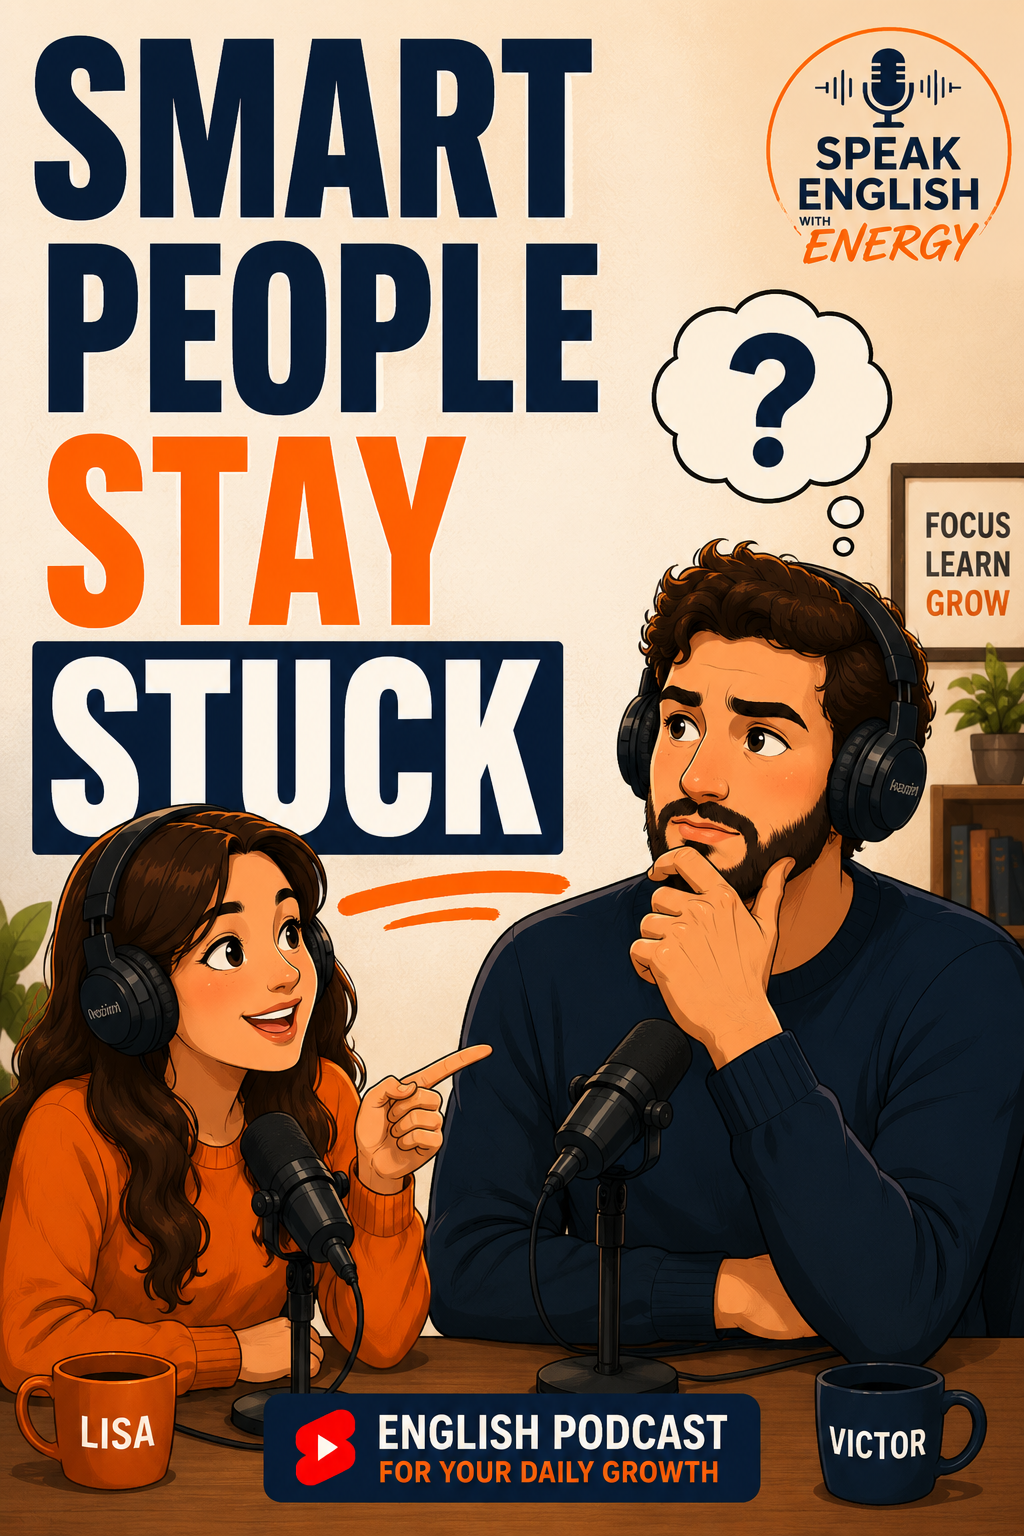
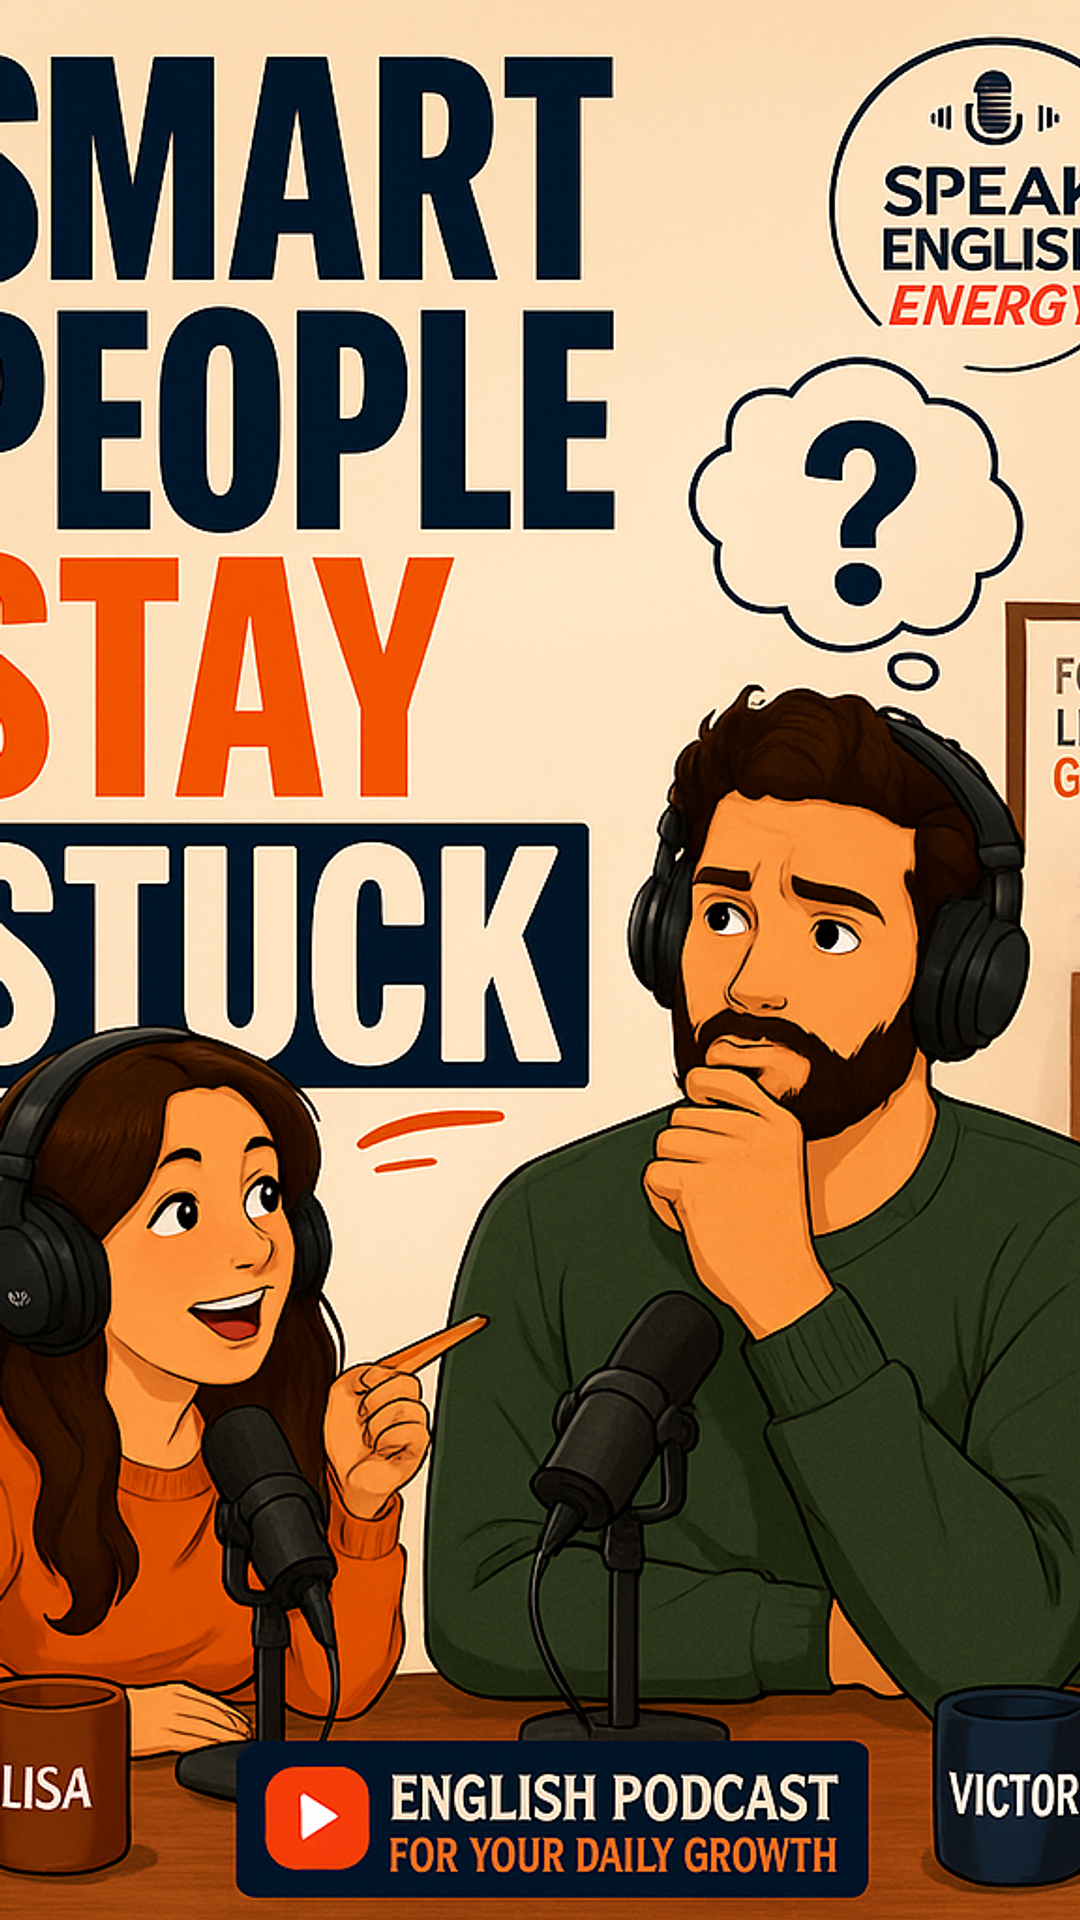
feat: update thumbnail generation to include episode details in prompts and enhance scene creation logic

diff --git a/src/prompts/short-thumbnail.prompt.ts b/src/prompts/short-thumbnail.prompt.ts
@@ -1,30 +1,44 @@
+import {
+  THUMBNAIL_ART_STYLE,
+  THUMBNAIL_BRAND_COLORS,
+  THUMBNAIL_CHARACTER_COLOR_REFERENCE,
+  THUMBNAIL_CHARACTERS_UNCHANGED,
+} from './thumbnail-brand';
+
 export interface ShortThumbnailPromptInput {
   topic: string;
+  episodeTitle: string;
   thumbnailText: string;
   thumbnailScene: string;
 }
 
 export function buildShortThumbnailImagePrompt(input: ShortThumbnailPromptInput): string {
-  const { topic, thumbnailText, thumbnailScene } = input;
+  const { topic, episodeTitle, thumbnailText, thumbnailScene } = input;
 
   return `Edit the provided reference thumbnail template for the "Speak English With Energy" English-learning channel — VERTICAL 9:16 short-form format.
 
-This is a TEMPLATE EDIT — keep the reference image layout and branding identical. Only change the headline text and topic-specific context.
+This is a STRICT TEMPLATE EDIT. Keep the vertical reference layout and branding identical. Only change the headline text and topic-specific context.
 
-KEEP UNCHANGED (match reference exactly):
+A second reference image (landscape podcast thumbnail) is provided ONLY for Victor and Lisa sweater colors — copy those colors exactly, not the vertical template's sweater colors if they differ.
+
+${THUMBNAIL_CHARACTER_COLOR_REFERENCE}
+
+KEEP UNCHANGED (match vertical reference exactly):
 - Vertical 9:16 portrait composition with safe margins — nothing touches the frame edges
 - TOP ~30%: stacked headline area centered (same typography style, spacing, and colors as reference)
 - MIDDLE/BOTTOM ~70%: Victor and Lisa at the podcast desk — same character designs, positions, and core props
 - TOP: "Speak ENGLISH WITH ENERGY" logo with microphone and book icons (compact for vertical)
 - BOTTOM: green rounded badge with microphone icon — "ENGLISH PODCAST" and "FOR LEARNING ENGLISH"
-- Victor: male, brown hair, beard, forest green sweater, black headphones, navy mug labeled "Victor"
-- Lisa: female, long wavy brown hair, orange sweater, black headphones, orange mug labeled "Lisa"
+${THUMBNAIL_CHARACTERS_UNCHANGED}
 - Desk: wooden table, two black condenser mics on stands, small white succulent, open notebook with pen
-- Art style: modern clean digital illustration, warm beige studio, soft shading, not photorealistic
-- Brand colors: Dark Navy #0D1B3D, Royal Blue #1E3A8A, Bright Orange #FF7A00, Off-white #F2F4F7
+- Art style: ${THUMBNAIL_ART_STYLE}
+- Brand colors: ${THUMBNAIL_BRAND_COLORS}
 
 CHANGE ONLY — headline text at the top:
-Replace the reference title with this new stacked headline (spell exactly):
+
+Episode title: "${episodeTitle}"
+
+Replace the reference headline with this new stacked ALL-CAPS text (spell exactly, preserve \\n line breaks):
 "${thumbnailText}"
 Use the same treatment as the reference: navy sans-serif lines, one keyword in large bright orange, one line in white on a thick navy horizontal brush-stroke banner.
 
@@ -36,16 +50,21 @@ Episode topic: "${topic}"
 High contrast, readable on a phone screen, no watermarks, no extra text beyond what is specified.`;
 }
 
-export function buildShortThumbnailScenePrompt(topic: string, thumbnailText: string): string {
+export function buildShortThumbnailScenePrompt(
+  topic: string,
+  episodeTitle: string,
+  thumbnailText: string,
+): string {
   return `You are an art director for the "Speak English With Energy" YouTube Short / TikTok channel.
 
+Episode title: "${episodeTitle}"
 Topic: "${topic}"
 Thumbnail headline: "${thumbnailText}"
 
 The thumbnail uses a fixed VERTICAL 9:16 template (Victor and Lisa at a podcast desk, headline at top). Write ONLY the topic-specific changes — not the full scene.
 
 Describe what to change from the default template:
-- Victor's expression and pose (listener's problem: confused, stuck, worried, etc.)
+- Victor's expression and pose — reflect the listener's problem from the episode title
 - Thought bubble content — one visual metaphor tied to the topic (scribble, chart, clock, etc.)
 - Lisa's expression and gesture (teaching, pointing, encouraging)
 - Three book spine titles on the desk stack — short uppercase words related to the topic

diff --git a/src/ai/thumbnail.service.ts b/src/ai/thumbnail.service.ts
@@ -65,29 +65,39 @@ export class ThumbnailService {
     );
   }
 
-  async generateShort(script: ShortScript, topic: string, outputPath: string): Promise<void> {
-    const demoPath = path.join(this.assetsDir, 'demo-short-thumbnail.png');
+  async generateShort(
+    script: ShortScript,
+    episode: Pick<PodcastScript, 'title' | 'thumbnailText' | 'thumbnailScene'>,
+    topic: string,
+    outputPath: string,
+  ): Promise<void> {
+    const demoShortPath = path.join(this.assetsDir, 'demo-short-thumbnail.png');
+    const demoLandscapePath = path.join(this.assetsDir, 'demo-thumbnail.png');
 
     const thumbnailScene =
+      episode.thumbnailScene ??
       script.thumbnailScene ??
-      (await this.generateShortScene(topic, script.thumbnailText));
+      (await this.generateShortScene(topic, episode.title, episode.thumbnailText));
 
     const prompt = buildShortThumbnailImagePrompt({
       topic,
-      thumbnailText: script.thumbnailText,
+      episodeTitle: episode.title,
+      thumbnailText: episode.thumbnailText,
       thumbnailScene,
     });
 
-    logger.info(`Generating short thumbnail for: "${script.thumbnailText}"`);
+    logger.info(`Generating short thumbnail for: "${episode.thumbnailText}"`);
 
-    const referenceBuffer = await prepareShortReferenceImage(demoPath);
-    const refSize = await getImageDimensions(referenceBuffer);
+    const shortReferenceBuffer = await prepareShortReferenceImage(demoShortPath);
+    const landscapeReferenceBuffer = await prepareReferenceImage(demoLandscapePath);
+    const refSize = await getImageDimensions(shortReferenceBuffer);
     logger.info(`Reference prepared → ${refSize.width}x${refSize.height} (9:16 content letterboxed for API)`);
+    logger.info('Including landscape reference for Victor/Lisa sweater color consistency');
 
     const apiBuffer = await this.openai.generateImageEdit(
       prompt,
-      [referenceBuffer],
-      ['demo-short-thumbnail.png'],
+      [shortReferenceBuffer, landscapeReferenceBuffer],
+      ['demo-short-thumbnail.png', 'demo-thumbnail-character-colors.png'],
     );
     const apiSize = await getImageDimensions(apiBuffer);
     logger.info(`API returned → ${apiSize.width}x${apiSize.height}`);
@@ -126,11 +136,15 @@ export class ThumbnailService {
     return result;
   }
 
-  private async generateShortScene(topic: string, thumbnailText: string): Promise<string> {
+  private async generateShortScene(
+    topic: string,
+    episodeTitle: string,
+    thumbnailText: string,
+  ): Promise<string> {
     logger.info('Generating short thumbnail scene description...');
 
     const result = await this.openai.generateJSON(
-      buildShortThumbnailScenePrompt(topic, thumbnailText),
+      buildShortThumbnailScenePrompt(topic, episodeTitle, thumbnailText),
       'You are a creative art director. Respond only with valid JSON.',
       (data: unknown) => {
         if (

diff --git a/src/prompts/short-script.prompt.ts b/src/prompts/short-script.prompt.ts
@@ -17,6 +17,7 @@ Instead: read the full episode, pick the ONE most compelling angle (the insight 
 
 Episode topic: "${topic}"
 Episode title: "${podcastScript.title}"
+Episode thumbnail headline: "${podcastScript.thumbnailText}"
 
 FULL PODCAST SCRIPT:
 ${scriptText}
@@ -49,8 +50,8 @@ QUALITY CHECK before returning JSON:
 
 METADATA:
 - "hook": the exact opening line that grabs attention (should match or closely match the first dialogue line)
-- "thumbnailText": 2–3 stacked lines, ALL CAPS, 3–6 words total, use \\n between lines — punchy, scroll-stopping, readable on a vertical phone screen
-- "thumbnailScene": topic-specific visual changes only (Victor expression, thought bubble metaphor, Lisa gesture, 3 book spine titles)
+- "thumbnailText": reuse the episode thumbnail headline exactly — same ALL-CAPS stacked lines with \\n: "${podcastScript.thumbnailText.replace(/\n/g, '\\n')}"
+- "thumbnailScene": reuse the episode thumbnail scene exactly: "${podcastScript.thumbnailScene ?? 'Victor confused with topic-related metaphor in thought bubble. Lisa points encouragingly. Book spines related to the topic.'}"
 - English level: A2–B1 (clear vocabulary, short sentences)
 
 Return ONLY a valid JSON object (no markdown, no code blocks):
@@ -58,7 +59,7 @@ Return ONLY a valid JSON object (no markdown, no code blocks):
   "title": "Short catchy title — max 50 characters",
   "description": "TikTok/Short caption with 2–3 hashtags",
   "hook": "Opening hook sentence",
-  "thumbnailText": "SMART\\nBUT STUCK?",
+  "thumbnailText": "${podcastScript.thumbnailText.replace(/\n/g, '\\n')}",
   "thumbnailScene": "Victor confused with puzzle pieces in thought bubble. Lisa points encouragingly. Book spines: MINDSET, FOCUS, GROWTH.",
   "script": [
     { "speaker": "Victor", "text": "..." },

diff --git a/src/prompts/thumbnail.prompt.ts b/src/prompts/thumbnail.prompt.ts
@@ -1,3 +1,9 @@
+import {
+  THUMBNAIL_ART_STYLE,
+  THUMBNAIL_BRAND_COLORS,
+  THUMBNAIL_CHARACTERS_UNCHANGED,
+} from './thumbnail-brand';
+
 export interface ThumbnailPromptInput {
   topic: string;
   episodeTitle: string;
@@ -29,11 +35,10 @@ BOTTOM LEFT — badge block (untouched):
 
 ALSO UNCHANGED:
 - Landscape 16:9 composition with safe margins — nothing touches frame edges
-- Victor: male, brown hair, beard, forest green sweater, black headphones, navy mug "Victor"
-- Lisa: female, long wavy brown hair, orange sweater, black headphones, orange mug "Lisa"
+${THUMBNAIL_CHARACTERS_UNCHANGED}
 - Desk layout: wooden table, two black condenser mics on stands, succulent, open notebook with pen
-- Art style: modern clean digital illustration, warm beige studio, soft shading, not photorealistic
-- Brand colors: Dark Navy #0D1B3D, Royal Blue #1E3A8A, Bright Orange #FF7A00, Off-white #F2F4F7
+- Art style: ${THUMBNAIL_ART_STYLE}
+- Brand colors: ${THUMBNAIL_BRAND_COLORS}
 
 ═══ CHANGE ONLY — left headline (keep demo typography styles) ═══
 

diff --git a/src/prompts/thumbnail-brand.ts b/src/prompts/thumbnail-brand.ts
@@ -1,0 +1,19 @@
+export const THUMBNAIL_BRAND_COLORS =
+  'Dark Navy #0D1B3D, Royal Blue #1E3A8A, Bright Orange #FF7A00, Off-white #F2F4F7';
+
+export const THUMBNAIL_VICTOR =
+  'male, brown hair, beard, forest green / olive green sweater (NOT navy, NOT black, NOT dark blue), black headphones, navy mug labeled "Victor"';
+
+export const THUMBNAIL_LISA =
+  'female, long wavy brown hair, bright orange #FF7A00 sweater, black headphones, orange mug labeled "Lisa"';
+
+export const THUMBNAIL_CHARACTERS_UNCHANGED = `- Victor: ${THUMBNAIL_VICTOR}
+- Lisa: ${THUMBNAIL_LISA}`;
+
+export const THUMBNAIL_ART_STYLE =
+  'modern clean digital illustration, warm beige studio, soft shading, not photorealistic';
+
+export const THUMBNAIL_CHARACTER_COLOR_REFERENCE = `CHARACTER COLORS — must match the landscape podcast thumbnail reference exactly:
+- Victor sweater: forest green / olive green — NEVER navy, black, or dark blue
+- Lisa sweater: bright orange #FF7A00
+If the vertical template shows Victor in navy, replace it with the landscape reference green.`;

diff --git a/src/short/short.pipeline.ts b/src/short/short.pipeline.ts
@@ -86,6 +86,7 @@ export async function runShortPipeline(
   } else {
     await services.thumbnailService.generateShort(
       shortScript,
+      { title: podcastScript.title, thumbnailText: podcastScript.thumbnailText, thumbnailScene: podcastScript.thumbnailScene },
       project.topic,
       paths.shortThumbnailPath,
     );
